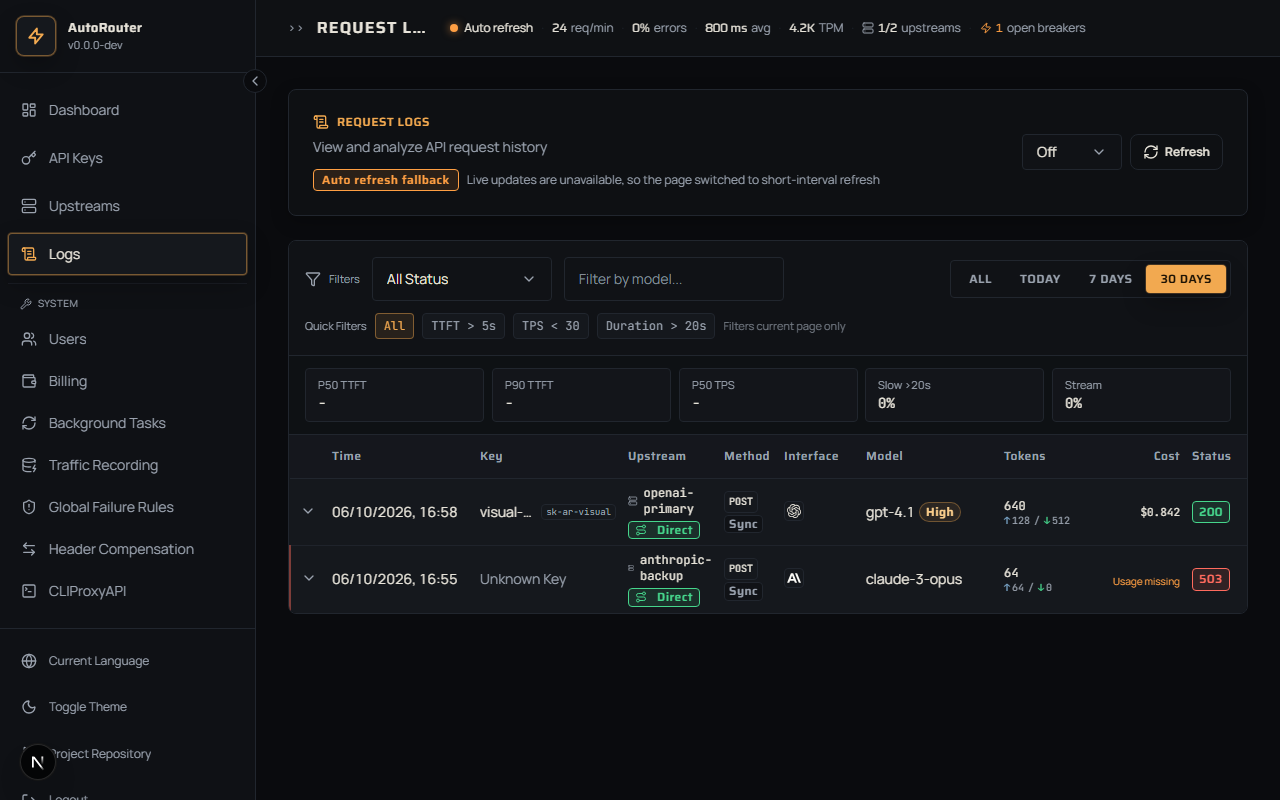
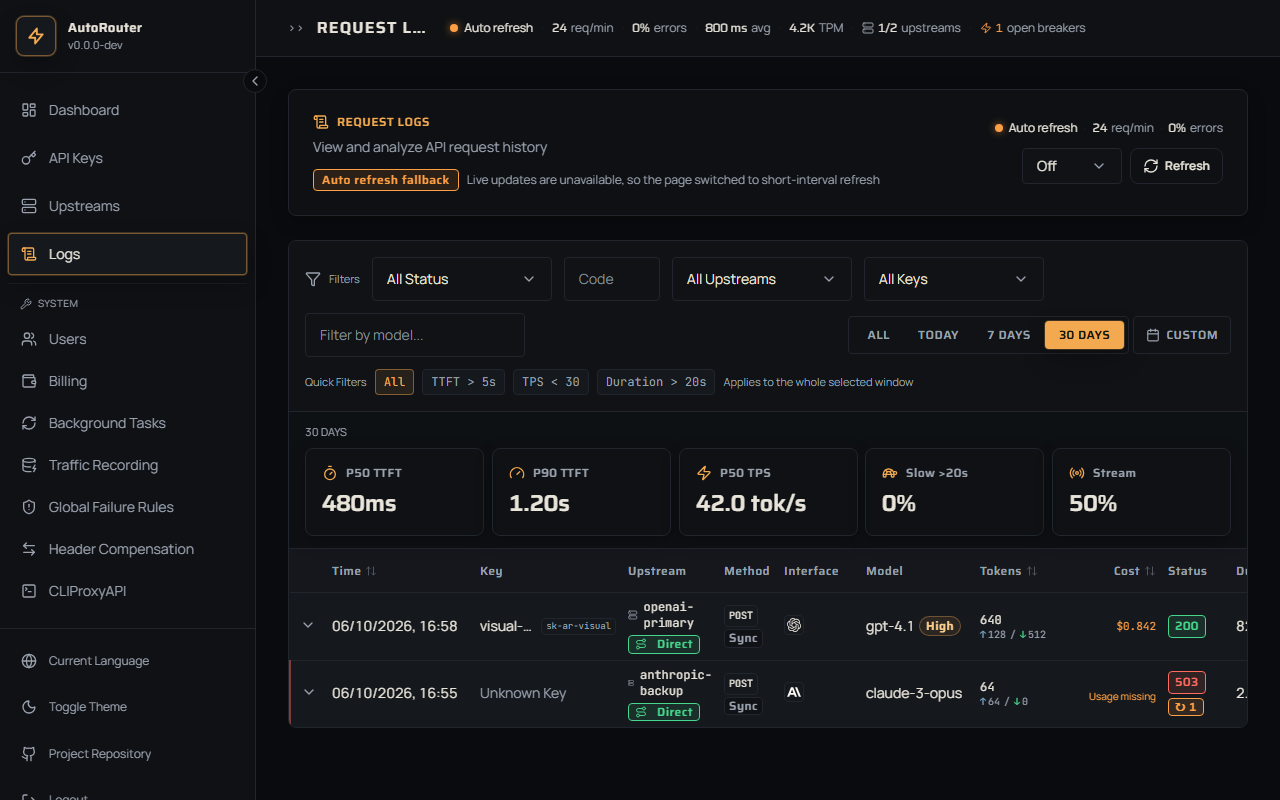
test(logs): 补齐 e2e 筛选选项 stub 并重生成 logs 视觉基线
- logs-routing-decision / billing-tier-flow：日志页新增的上游与密钥筛选
  选项请求（/api/admin/upstreams、/api/admin/keys）未被 stub，401 触发
  onUnauthorized 把会话登出导致用例失败，补 mockLogsFilterOptionApis 空页 stub
- admin-page-mocks：新增 /api/admin/logs/stats 窗口统计 mock，
  避免 StatCard 在视觉快照里渲染 catch-all 的空对象
- 重新生成 logs-visual-win32.png（Phase 2–4 UI 改动后的新基线）
- 勾选 tasks.md 5.1 / 5.2

验证：pnpm e2e --workers=2 23 passed；pnpm test:visual 9 passed；
tsc --noEmit 与 eslint 通过

diff --git a/tests/e2e/billing-tier-flow.spec.ts b/tests/e2e/billing-tier-flow.spec.ts
@@ -292,6 +292,21 @@ async function mockLogsApi(page: Page) {
   });
 }
 
+// The logs page fetches upstream / API-key filter options. Left unmocked they
+// reach the real server with the fake e2e token and the 401 logs the session
+// out mid-test, so stub them with empty pages.
+async function mockLogsFilterOptionApis(page: Page): Promise<void> {
+  const emptyPage = { items: [], total: 0, page: 1, page_size: 100, total_pages: 0 };
+  const fulfillEmpty = (route: Parameters<Parameters<Page["route"]>[1]>[0]) =>
+    route.fulfill({
+      status: 200,
+      contentType: "application/json",
+      body: JSON.stringify(emptyPage),
+    });
+  await page.route("**/api/admin/upstreams?**", fulfillEmpty);
+  await page.route("**/api/admin/keys?**", fulfillEmpty);
+}
+
 // The live pulse bar in the dashboard layout opens a stats/live connection on
 // every page. Stub it so this mocked flow stays isolated from the real server.
 function mockLivePulse(page: Page): Promise<void> {
@@ -326,6 +341,7 @@ test.describe("Billing tier-aware verification", () => {
     await seedAdminToken(page);
     await mockBillingApis(page);
     await mockLogsApi(page);
+    await mockLogsFilterOptionApis(page);
 
     await page.goto("/en/system/billing");
 

diff --git a/tests/e2e/logs-routing-decision.spec.ts b/tests/e2e/logs-routing-decision.spec.ts
@@ -95,6 +95,21 @@ function mockTrafficRecordingsApi(page: Page): Promise<void> {
   });
 }
 
+// The logs page fetches upstream / API-key filter options. Left unmocked they
+// reach the real server with the fake e2e token and the 401 logs the session
+// out mid-test, so stub them with empty pages.
+async function mockLogsFilterOptionApis(page: Page): Promise<void> {
+  const emptyPage = { items: [], total: 0, page: 1, page_size: 100, total_pages: 0 };
+  const fulfillEmpty = (route: Parameters<Parameters<Page["route"]>[1]>[0]) =>
+    route.fulfill({
+      status: 200,
+      contentType: "application/json",
+      body: JSON.stringify(emptyPage),
+    });
+  await page.route("**/api/admin/upstreams?**", fulfillEmpty);
+  await page.route("**/api/admin/keys?**", fulfillEmpty);
+}
+
 // The live pulse bar in the dashboard layout opens a stats/live connection on
 // every page. Stub it so this mocked flow stays isolated from the real server.
 function mockLivePulse(page: Page): Promise<void> {
@@ -126,6 +141,7 @@ test.describe("Logs routing diagnostics", () => {
   test("does not show selected upstream when request was never sent upstream", async ({ page }) => {
     await seedAdminToken(page);
     await mockLogsApi(page);
+    await mockLogsFilterOptionApis(page);
     await mockTrafficRecordingsApi(page);
 
     await page.goto("/en/logs");

diff --git a/tests/support/admin-page-mocks.ts b/tests/support/admin-page-mocks.ts
@@ -402,6 +402,16 @@ const LOGS_PAGE = {
   total_pages: 1,
 };
 
+// 统计瓦片的窗口级指标；catch-all 的裸 `{}` 会让 StatCard 全部渲染成空值。
+const LOGS_WINDOW_STATS = {
+  total: 2,
+  stream_count: 1,
+  slow_count: 0,
+  p50_ttft_ms: 480,
+  p90_ttft_ms: 1200,
+  p50_tps: 42,
+};
+
 const BILLING_MODEL_PRICES = {
   items: [
     {
@@ -484,6 +494,9 @@ export async function mockAdminApis(page: Page): Promise<void> {
     fulfillJson(route, 200, BILLING_MODEL_PRICES)
   );
   await page.route("**/api/admin/logs?**", (route) => fulfillJson(route, 200, LOGS_PAGE));
+  await page.route("**/api/admin/logs/stats**", (route) =>
+    fulfillJson(route, 200, LOGS_WINDOW_STATS)
+  );
   // useRequestLogLive 读取 text/event-stream；给一个立即结束的空流即可让它稳定
   // 降级为 fallback 轮询，不必等 10s 重连超时或让请求悬挂拖慢页面就绪。
   await page.route("**/api/admin/logs/live**", (route) =>

diff --git a/openspec/changes/enhance-logs-page/tasks.md b/openspec/changes/enhance-logs-page/tasks.md
@@ -32,5 +32,5 @@
 
 ## 5. 验证与收尾
 
-- [ ] 5.1 dev server 浏览器实查：admin logs 页与 portal requests 页、双主题、lg/xl 视口；portal 无 admin 选择器且无 `/admin/*` 请求（test/test1234）
-- [ ] 5.2 本地 `pnpm e2e --workers=2` 通过；重新生成 `tests/visual/pages.spec.ts-snapshots/logs-visual-win32.png`；最终提交
+- [x] 5.1 dev server 浏览器实查：admin logs 页与 portal requests 页、双主题、lg/xl 视口；portal 无 admin 选择器且无 `/admin/*` 请求（test/test1234）
+- [x] 5.2 本地 `pnpm e2e --workers=2` 通过（新增筛选选项端点 stub 修复 401 登出）；重新生成 `tests/visual/pages.spec.ts-snapshots/logs-visual-win32.png`；最终提交